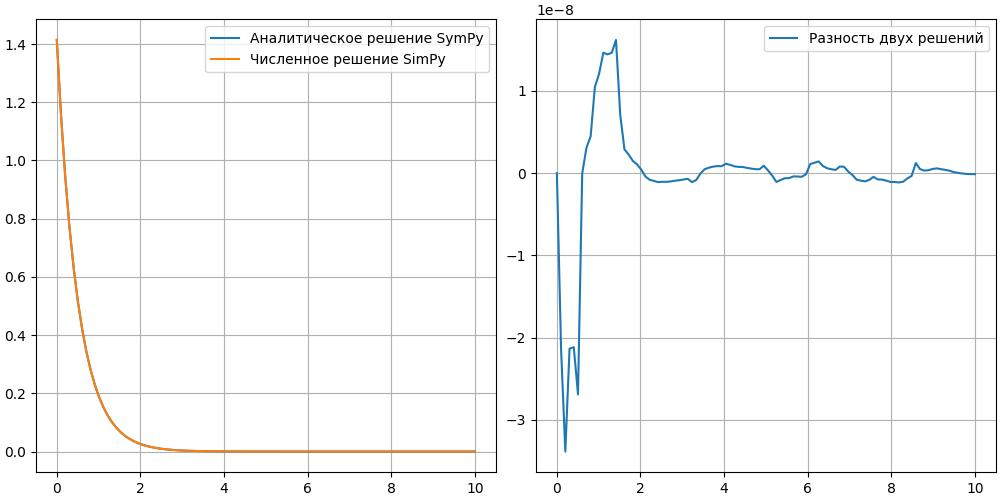
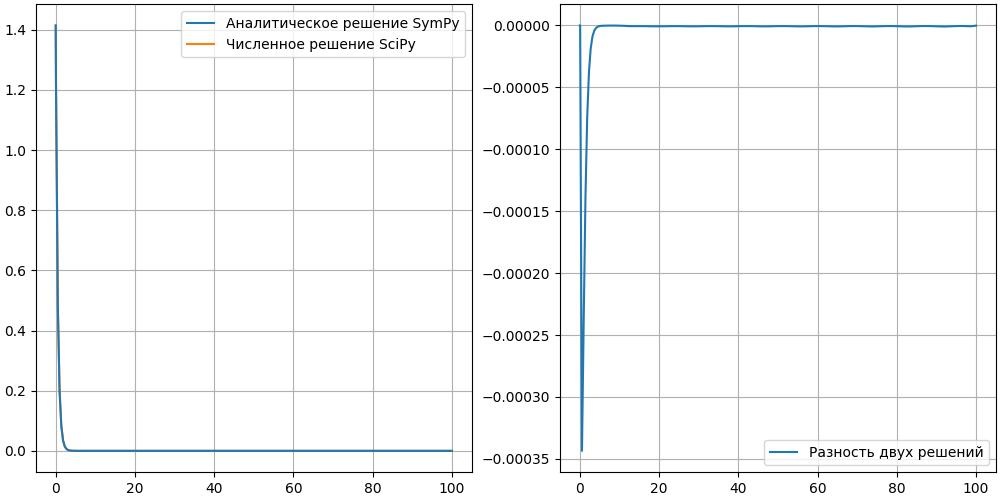
Issues_Numpy_SciPy

diff --git a/SciPy-SymPy/Task3/main3.py b/SciPy-SymPy/Task3/main3.py
@@ -1,5 +1,5 @@
 import sympy
-from scipy.integrate import odeint
+from scipy.integrate import solve_ivp
 import numpy
 import matplotlib.pyplot as pyplot
 
@@ -17,18 +17,17 @@ rez = solution.rhs.subs(C1, sol_for_const)  # Подставляем в реше
 f = sympy.lambdify(x, rez, 'numpy')  # Превращаем решение в функцию
 
 # SciPy
-def returns_dydx(y, x):
+def returns_dydx(x, y):
     dydx = -2 * y
     return dydx
 
-y0 = numpy.sqrt(2)  # Начальные условия
-xs = numpy.linspace(0, 10, 100)
-ys = odeint(returns_dydx, y0, xs)  # Численно решаем диффур
-ys = numpy.concatenate(ys, axis=0)  # odeint возвращает массив массивов из одного элемента, который мы объединяем в один
+sol = solve_ivp(returns_dydx, [0, 100], [numpy.sqrt(2)])  # Численно решаем диффур
+xs = sol.t
+ys = sol.y[0]
 
 fig, axes = pyplot.subplots(1, 2, figsize=(10, 5), layout='constrained')
-axes[0].plot(xs, f(xs), label='Аналитическое решение SymPy')
-axes[0].plot(xs, ys, label='Численное решение SimPy')
+axes[0].plot(xs, f(xs), zorder=10, label='Аналитическое решение SymPy')
+axes[0].plot(xs, ys, label='Численное решение SciPy')
 axes[1].plot(xs, f(xs) - ys, label='Разность двух решений')
 axes[0].legend()
 axes[1].legend()

diff --git a/NumPy/Task2/main2.py b/NumPy/Task2/main2.py
@@ -1,19 +1,17 @@
 import numpy
 import matplotlib.pyplot as pyplot
 
+
 def moving_average_10(np_arr):
-    np_out = numpy.zeros_like(np_arr, numpy.float64)
-    for i in range(np_arr.size):
-        if i < 9:
-            np_out[i] = numpy.sum(np_arr[:i+1]) / (i+1)
-        else:
-            np_out[i] = numpy.sum(np_arr[i-9:i+1]) / 10
+    lhs = numpy.ones(10)
+    stairs = numpy.arange(1, 10, 1)
+    np_out = numpy.concatenate((numpy.cumsum(np_arr[:9]) / stairs,
+                                numpy.convolve(lhs, np_arr, 'valid') / 10))
     return np_out
 
 num = 1
-with open(f'signal0{num}.dat') as file:
-    data = numpy.array([i.rstrip() for i in file.readlines()], numpy.float64)
-    process_data = moving_average_10(data)
+data = numpy.loadtxt(f'signal0{num}.dat', dtype=numpy.float64)
+process_data = moving_average_10(data)
 
 fig, axes = pyplot.subplots(1, 2, figsize=(10, 5), layout='constrained')
 time_line = numpy.arange(0, data.size, 1)

diff --git a/NumPy/Task3/main3.py b/NumPy/Task3/main3.py
@@ -2,13 +2,10 @@ import numpy
 import matplotlib.pyplot as pyplot
 import matplotlib.animation as animation
 
-with open('start.dat') as file:
-    ys = numpy.array([i.rstrip() for i in file.readlines()], numpy.float32)
-    xs = numpy.arange(0, ys.size, 1)
+ys = numpy.loadtxt('start.dat', dtype=numpy.float32)
+xs = numpy.arange(0, ys.size, 1)
 
-A = numpy.eye(ys.size)
-for i in range(ys.size):
-    A[i][-1+i] = -1
+A = numpy.eye(ys.size) - numpy.roll(numpy.eye(ys.size), -1, axis=1)
 
 fig, ax = pyplot.subplots()
 line_plotted = ax.plot(xs, ys)[0]

diff --git a/SciPy-SymPy/Task2/main2.py b/SciPy-SymPy/Task2/main2.py
@@ -2,11 +2,9 @@ import numpy
 from scipy.linalg import solve
 import matplotlib.pyplot as pyplot
 
-with open('large.txt') as file:
-    n = file.readline()
-    data = numpy.array([i.rstrip().split() for i in file.readlines()], numpy.float64)
-    A = data[:-1]
-    b = data[-1]
+data = numpy.loadtxt('large.txt', skiprows=1, dtype=numpy.float32)
+A = data[:-1]
+b = data[-1]
 
 x = solve(A, b)
 fig, ax = pyplot.subplots(figsize=(21, 9))
